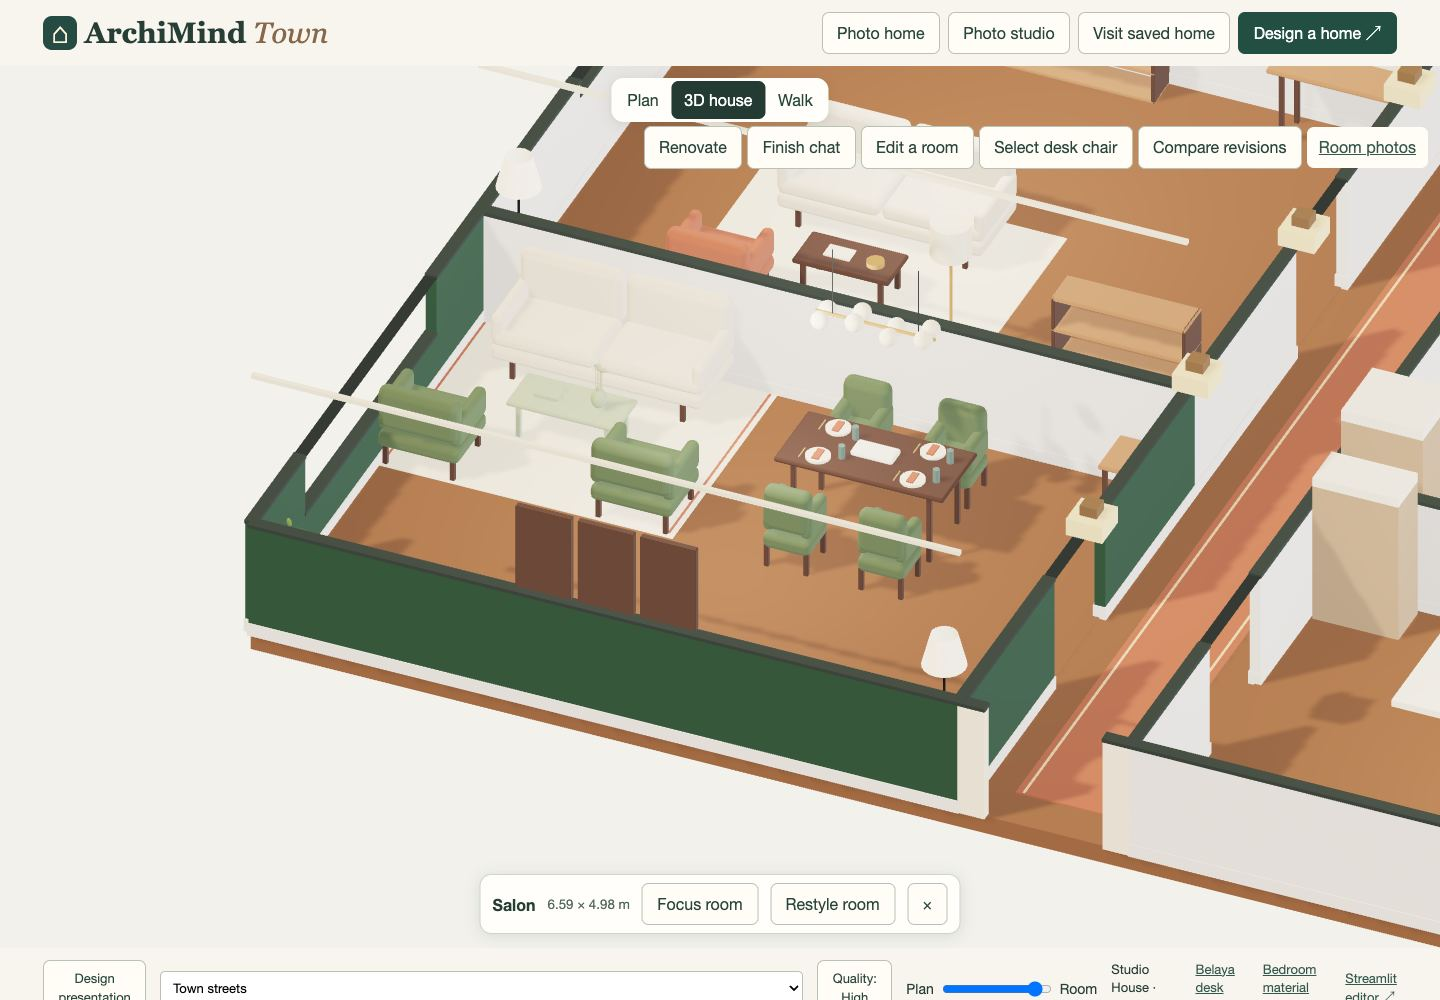
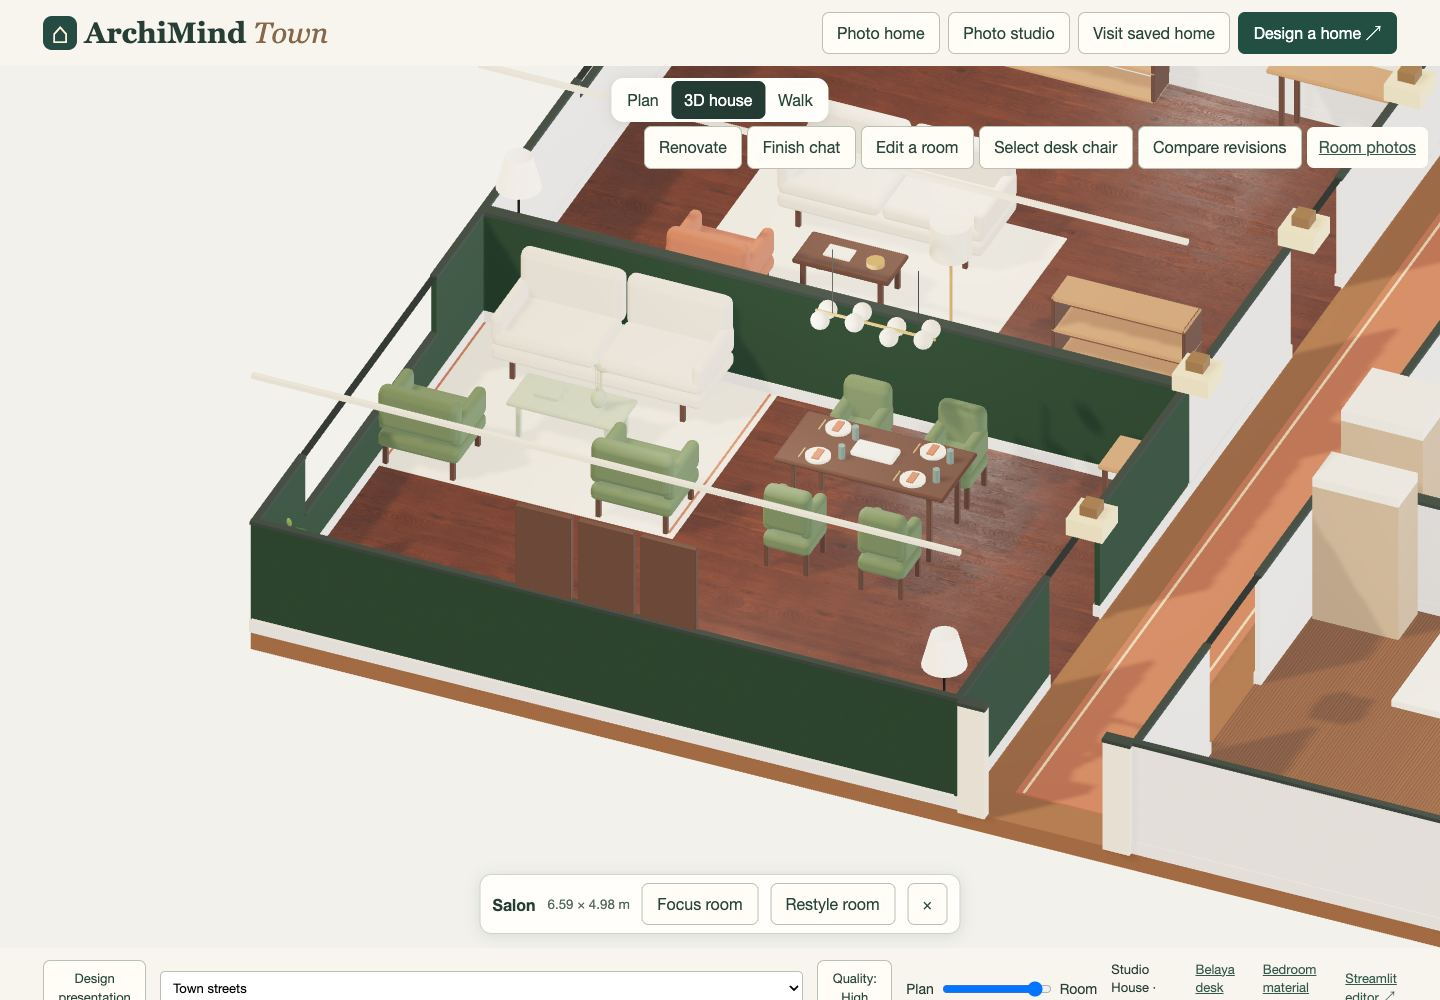
Separate painted partition faces and preserve room finish overrides in styled renders

diff --git a/frontend/realistic_viewer/town/world.js b/frontend/realistic_viewer/town/world.js
@@ -485,14 +485,6 @@ export function createTown(canvas, status, action) {
   function dressInterior(pack, packTier) {
     const lighting = pack.manifest.lighting || {};
     const undoSurfaces = dressTownSurfaces(interior, pack);
-    for (const group of interior.children) {
-      const overrides = home.rooms.find(p=>p.design.room.id===group.userData.roomId)?.finish_overrides;
-      if (!overrides) continue;
-      for (const o of group.children) {
-        const role=o.userData.surface==="tile"?"floor":o.userData.surface;
-        if (["wall","floor"].includes(role) && overrides[role]) o.material=mat(finishColors[overrides[role]]);
-      }
-    }
     const seams = [];
     interior.traverse((o) => {
       if (o.userData.legacySeam && o.visible) {
@@ -925,6 +917,8 @@ export function createTown(canvas, status, action) {
 
     }
     const wallColor = LEGACY_WALL_COLORS[h.palette];
+    // Split both faces so an adjacent room cannot hide the selected wall paint.
+    const splitFaces = h.photo_home || h.rooms.some(p => p.finish_overrides?.wall);
     for (const part of h.rooms) {
       const [ox, oy] = part.origin,
         r = part.design.room,
@@ -945,20 +939,23 @@ export function createTown(canvas, status, action) {
       for (const q of wallQuads(r)) {
         const a = q.points[0],
           b = q.points[2],
-          x = (a[0] + b[0]) / 2 + (h.photo_home ? ({ west: 0.025, east: -0.025 }[q.wall] || 0) : 0),
-          z = -(a[1] + b[1]) / 2 - (h.photo_home ? ({ south: 0.025, north: -0.025 }[q.wall] || 0) : 0);
+          x = (a[0] + b[0]) / 2 + (splitFaces ? ({ west: 0.025, east: -0.025 }[q.wall] || 0) : 0),
+          z = -(a[1] + b[1]) / 2 - (splitFaces ? ({ south: 0.025, north: -0.025 }[q.wall] || 0) : 0);
         const wall = block(
           group,
           x,
           (q.bottom + q.top) / 2,
           z,
-          Math.abs(a[0] - b[0]) || (h.photo_home ? 0.05 : 0.1),
+          Math.abs(a[0] - b[0]) || (splitFaces ? 0.05 : 0.1),
           q.top - q.bottom,
-          Math.abs(a[1] - b[1]) || (h.photo_home ? 0.05 : 0.1),
+          Math.abs(a[1] - b[1]) || (splitFaces ? 0.05 : 0.1),
           wallColor,
         );
         wall.userData.surface = "wall";
-        if(part.finish_overrides?.wall) wall.material=mat(finishColors[part.finish_overrides.wall]);
+        if (part.finish_overrides?.wall) {
+          wall.userData.finishColor = finishColors[part.finish_overrides.wall];
+          wall.material = mat(wall.userData.finishColor);
+        }
         walls.push({wall, ox, oy, bottom:q.bottom, height:q.top-q.bottom});
         if (q.bottom === 0) {
           block(
@@ -991,7 +988,10 @@ export function createTown(canvas, status, action) {
         r.id === "bathroom" ? "#b4b8b1" : "#ba9a70",
       );
       if (r.id === "bedroom") flooring.material = oak;
-      if(part.finish_overrides?.floor) flooring.material=mat(finishColors[part.finish_overrides.floor]);
+      if (part.finish_overrides?.floor) {
+        flooring.userData.finishColor = finishColors[part.finish_overrides.floor];
+        flooring.material = mat(flooring.userData.finishColor);
+      }
       flooring.userData.surface = r.id === "bathroom" ? "tile" : "floor";
       for (let row = 0; r.id !== "bedroom" && row < r.depth_m / 0.25; row++) {
         const z = row * 0.25;
@@ -1348,22 +1348,16 @@ export function createTown(canvas, status, action) {
       states.includes("placeholder") ? "placeholder" : states.includes("verified") ? "verified" : "procedural"
     );
   }
+  function canStand(x, z, indoors, colliders) {
+    const inBounds = indoors
+      ? x > 0.23 && x < home.width - 0.23 && z < -0.18 && z > -home.depth + 0.23
+      : Math.abs(x) < 45 && Math.abs(z) < 30;
+    return inBounds && colliders.every(([l, t, r, b]) =>
+      x < l - 0.22 || x > r + 0.22 || z < t - 0.22 || z > b + 0.22);
+  }
   function move(dx, dz) {
     const coll = inside ? indoor : [...obstacles, ...heroObstacles];
-    function ok(x, z) {
-      return (
-        (inside
-          ? x > 0.23 &&
-            x < home.width - 0.23 &&
-            z < -0.18 &&
-            z > -home.depth + 0.23
-          : Math.abs(x) < 45 && Math.abs(z) < 30) &&
-        coll.every(
-          ([l, t, r, b]) =>
-            x < l - 0.22 || x > r + 0.22 || z < t - 0.22 || z > b + 0.22,
-        )
-      );
-    }
+    const ok = (x,z) => canStand(x,z,inside,coll);
     if (ok(pos.x + dx, pos.z)) pos.x += dx;
     if (ok(pos.x, pos.z + dz)) pos.z += dz;
   }
@@ -1633,6 +1627,8 @@ export function createTown(canvas, status, action) {
       updateQuality();
     },
     restoreWalkingView(pose) {
+      if (!canStand(pose.eye[0], pose.eye[2], true, indoor))
+        throw Error("This walking position is obstructed in this revision. Choose another view.");
       overview.set("");
       enter(true);
       pos.set(pose.eye[0], 0, pose.eye[2]);

diff --git a/frontend/realistic_viewer/tests/town_style.test.js b/frontend/realistic_viewer/tests/town_style.test.js
@@ -46,6 +46,7 @@ test("tagged interior meshes take tiled pack surfaces and the undo restores shar
   const wall = new T.Mesh(new T.BoxGeometry(), shared);
   wall.scale.set(4, 2.8, 0.1);
   wall.userData.surface = "wall";
+  wall.userData.finishColor = "#294735";
   const floor = new T.Mesh(new T.BoxGeometry(), shared);
   floor.scale.set(3, 0.014, 5);
   floor.userData.surface = "floor";
@@ -61,6 +62,8 @@ test("tagged interior meshes take tiled pack surfaces and the undo restores shar
   const pack = { surface: (role) => surfaces[role] || null };
   const undo = dressTownSurfaces(group, pack);
   assert.deepEqual(wall.material.map.repeat.toArray(), [2, 1.4]);
+  assert.equal(wall.material.color.getHexString(), "294735");
+  assert.equal(surfaces.wall.color.getHexString(), "ffffff");
   assert.deepEqual(floor.material.map.repeat.toArray(), [2, 5 / 1.5]);
   assert.equal(plain.material, shared);
   undo();

diff --git a/frontend/realistic_viewer/town/style_source.js b/frontend/realistic_viewer/town/style_source.js
@@ -48,6 +48,7 @@ export function dressTownSurfaces(group, pack) {
     const { x, y, z } = o.scale;
     const flat = role === "floor" || role === "ceiling";
     const material = flat ? tiledSurface(base, x, z) : tiledSurface(base, Math.max(x, z), y);
+    if (o.userData.finishColor) material.color.set(o.userData.finishColor);
     swaps.push([o, o.material, material]);
     o.material = material;
   });

diff --git a/scripts/render_studio_home.py b/scripts/render_studio_home.py
@@ -19,6 +19,34 @@ from render_saved_style import dress_scene  # noqa: E402
 from studio_photography import attach_textile_detail, daylight_exposure  # noqa: E402
 
 
+def touching_walls(rooms):
+    """Find opposing shell faces on coincident grid lines with a shared span."""
+    found = {p["room"]["id"]: set() for p in rooms}
+    if not any(p.get("finish_overrides", {}).get("wall") for p in rooms):
+        return found
+    edges = []
+    for p in rooms:
+        room = p["room"]
+        x, y = p["origin"]
+        right, top = x + room["width_m"], y + room["depth_m"]
+        for side, opposite, line, start, end in (
+            ("east", "west", right, y, top),
+            ("west", "east", x, y, top),
+            ("north", "south", top, x, right),
+            ("south", "north", y, x, right),
+        ):
+            for other, face, axis, lo, hi in edges:
+                if (
+                    face == opposite
+                    and abs(line - axis) < 1e-5
+                    and min(end, hi) - max(start, lo) > 1e-5
+                ):
+                    found[room["id"]].add(side)
+                    found[other].add(face)
+            edges.append((room["id"], side, line, start, end))
+    return found
+
+
 def translate_new(before, origin):
     for obj in set(bpy.data.objects) - before:
         if not obj.parent:
@@ -249,6 +277,7 @@ def render(args):
     (out / "surface-sources.json").write_bytes(
         (bedroom.SURFACES / "bedroom-sources.json").read_bytes()
     )
+    shared_walls = touching_walls(board["rooms"])
     with tempfile.TemporaryDirectory() as tmp:
         tmp = Path(tmp)
         path = tmp / "manifest.json"
@@ -261,6 +290,7 @@ def render(args):
             include_hall=False,
             style_slots=slots.get("bedroom", set()),
             pleated_curtains=style is None,
+            shared_walls=shared_walls["bedroom"],
         )
     scene = bpy.context.scene
     for obj in list(bpy.data.objects):
@@ -333,6 +363,7 @@ def render(args):
             )
             if role and role in overrides and obj.type == "MESH" and obj.data.materials:
                 obj.data.materials[0] = finishes["proposal-" + overrides[role]]
+                obj["saved_surface_finish"] = overrides[role]
 
     bedroom_part = next(p for p in board["rooms"] if p["room"]["id"] == "bedroom")
     surface_finishes(bpy.data.objects, bedroom_part.get("finish_overrides", {}))
@@ -354,7 +385,12 @@ def render(args):
             seam.thickness = 0.003
         if room["id"] != "bedroom":
             before = set(bpy.data.objects)
-            bedroom.architecture(room, mats, pleated_curtains=style is None)
+            bedroom.architecture(
+                room,
+                mats,
+                pleated_curtains=style is None,
+                shared_walls=shared_walls[room["id"]],
+            )
             surface_finishes(
                 set(bpy.data.objects) - before, part.get("finish_overrides", {})
             )

diff --git a/scripts/render_saved_bedroom.py b/scripts/render_saved_bedroom.py
@@ -196,7 +196,7 @@ from studio_bedroom_dims import (  # noqa: E402
 )
 
 
-def architecture(room, materials, *, pleated_curtains=True):
+def architecture(room, materials, *, pleated_curtains=True, shared_walls=()):
     w, d, h = room["width_m"], room["depth_m"], room["ceiling_height_m"]
     box(
         "Ceiling", (w / 2, d / 2, h + 0.05), (w + 0.2, d + 0.2, 0.1), materials["ivory"]
@@ -224,7 +224,11 @@ def architecture(room, materials, *, pleated_curtains=True):
         east_west = wall in ("east", "west")
         length = d if east_west else w
         inward = -1 if wall in ("east", "north") else 1
+        finish_depth = WALL_DEPTH_M / 2 if wall in shared_walls else WALL_DEPTH_M
         wall_axis = {"west": 0, "east": w, "south": 0, "north": d}[wall]
+        if wall in shared_walls:
+            # Each room owns the inner half of the common partition, including its trim.
+            wall_axis += inward * finish_depth
 
         def point(t, z, inset=0, axis=wall_axis, sign=inward, ew=east_west):
             v = axis + sign * inset
@@ -270,8 +274,8 @@ def architecture(room, materials, *, pleated_curtains=True):
                     right,
                     z,
                     low,
-                    WALL_DEPTH_M,
-                    -WALL_DEPTH_M / 2,
+                    finish_depth,
+                    -finish_depth / 2,
                     materials["plaster"],
                 )
                 if z == 0 and low > 0.1:
@@ -456,6 +460,7 @@ def render(
     include_hall=True,
     style_slots=(),
     pleated_curtains=True,
+    shared_walls=(),
 ):
     manifest_bytes = manifest_path.read_bytes()
     manifest_sha256 = hashlib.sha256(manifest_bytes).hexdigest()
@@ -524,7 +529,7 @@ def render(
     scene.world.node_tree.links.new(env.outputs["Color"], bg.inputs["Color"])
     bg.inputs["Strength"].default_value = 0.8
     room = manifest["room"]
-    architecture(room, m, pleated_curtains=pleated_curtains)
+    architecture(room, m, pleated_curtains=pleated_curtains, shared_walls=shared_walls)
     if include_hall:
         hall_context(manifest["hall_context"], room, m)
     registry_data = json.loads((ASSETS / "designer_registry.json").read_text())

diff --git a/scripts/render_saved_style.py b/scripts/render_saved_style.py
@@ -271,7 +271,7 @@ def dress_scene(plan, board, base, out):
                 label
             )
         )
-        if role and obj.type == "MESH":
+        if role and obj.type == "MESH" and not obj.get("saved_surface_finish"):
             obj.data.materials[0] = materials[role]
     for room in board["rooms"]:
         r = room["room"]
@@ -281,7 +281,9 @@ def dress_scene(plan, board, base, out):
             "Town pack floor " + r["id"],
             (ox + w / 2, oy + d / 2, STYLED_FINISHED_FLOOR_M - 0.007),
             (w, d, 0.014),
-            materials["tile" if r["id"] == "bathroom" else "floor"],
+            bpy.data.materials["proposal-" + room["finish_overrides"]["floor"]]
+            if room.get("finish_overrides", {}).get("floor")
+            else materials["tile" if r["id"] == "bathroom" else "floor"],
         )
     env = releases[pack["lighting"]["environment_asset_id"]]
     env_file = tier_file(env, "hdr")
